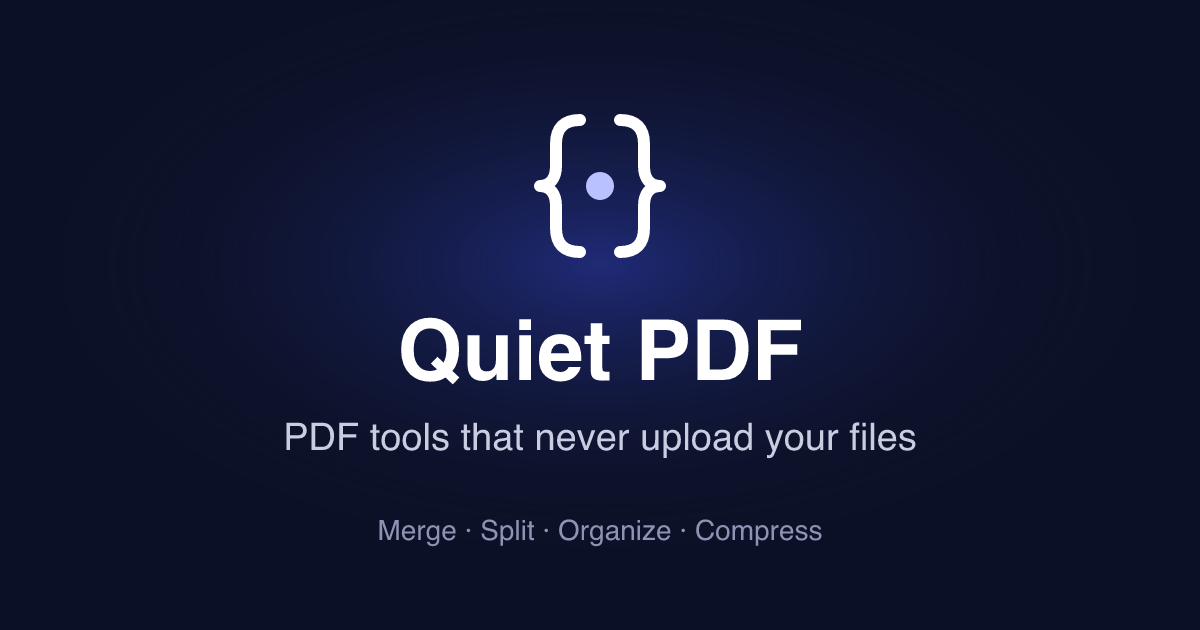
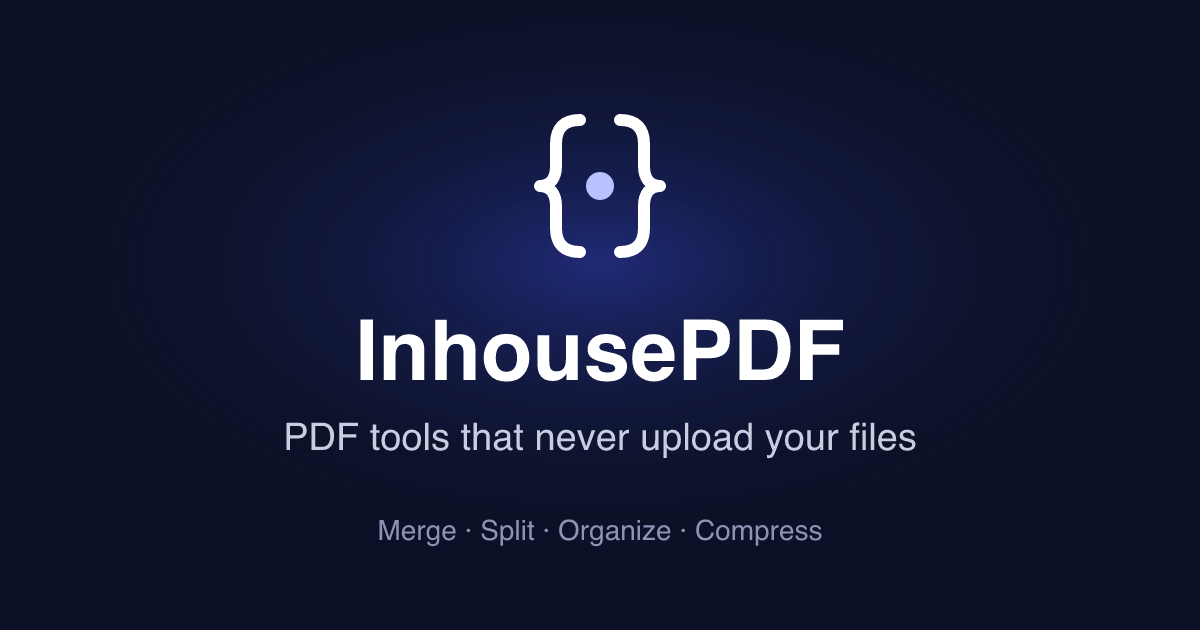
chore: Rename product to InhousePDF (inhousepdf.com)

Changed region(s): [[0.2775, 0.4825, 0.7092, 0.6032]]

diff --git a/src/site.ts b/src/site.ts
@@ -1,10 +1,10 @@
 export const site = {
-  name: 'Quiet PDF',
-  url: 'https://quietpdf.example',
+  name: 'InhousePDF',
+  url: 'https://inhousepdf.com',
   tagline: 'PDF tools that never upload your files',
   studio: 'Quiet Labs',
   studioUrl: 'https://x.com/quietlabs_devv',
-  sourceUrl: 'https://github.com/yashsharma04/quiet-pdf',
+  sourceUrl: 'https://github.com/yashsharma04/inhouse-pdf',
   /** Tip link shown in the footer; hidden while null. */
   tipUrl: null as string | null,
 };

diff --git a/docs/plans/2026-09-26-quiet-pdf-design.md b/docs/plans/2026-09-26-quiet-pdf-design.md
@@ -43,7 +43,7 @@ FAQ (static HTML + FAQPage JSON-LD) → links to other tools.
 
 Shared layout: header (logo, tool links), footer (privacy line, source link, "by Quiet Labs", tip link).
 
-Product name and domain live in one config file (`src/site.ts`). Working name: "Quiet PDF".
+Product name and domain live in one config file (`src/site.ts`). Working name was "Quiet PDF"; renamed to "InhousePDF" (inhousepdf.com) because several live "QuietPDF" products already offer the same pitch.
 
 ## Tool UX
 

diff --git a/README.md b/README.md
@@ -1,4 +1,4 @@
-# Quiet PDF
+# InhousePDF
 
 Private PDF tools that run entirely in the browser: merge, split, organize, and compress.
 Files never leave the device. A Quiet Labs project.
